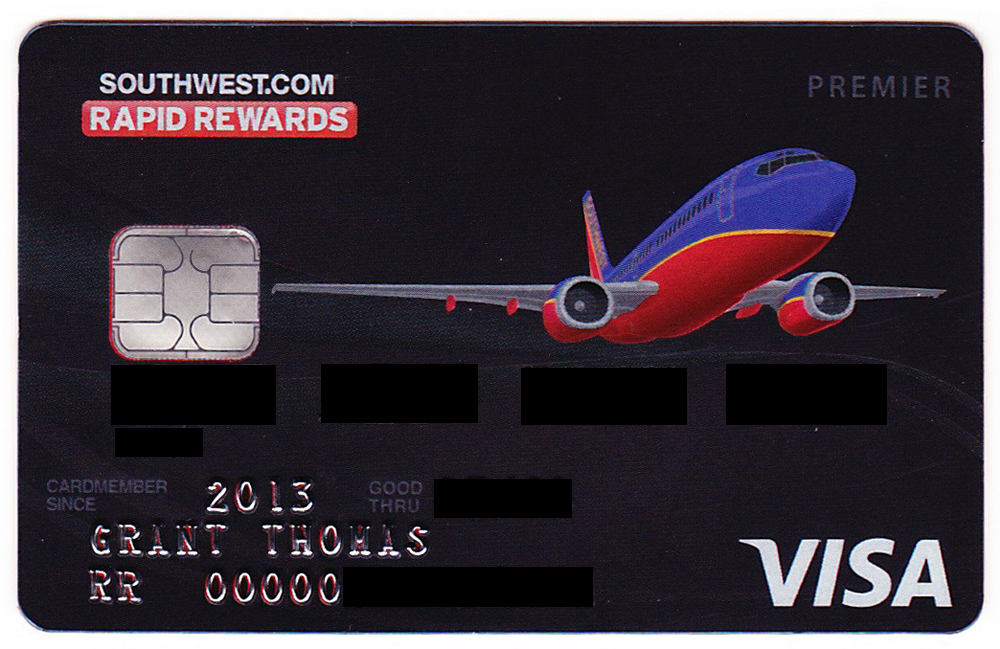
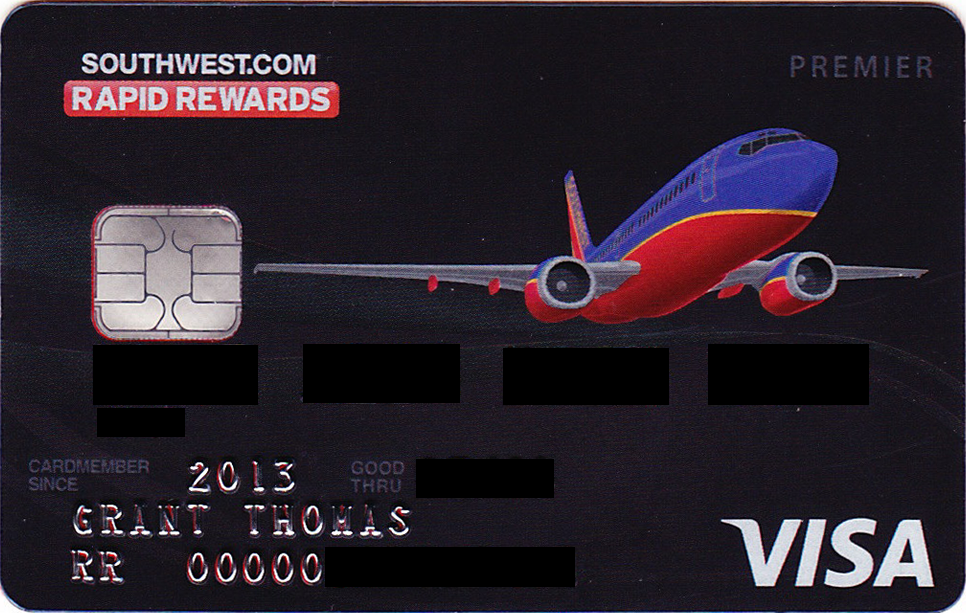
Added corner radius

diff --git a/src/components/CardBox/CardBox.js b/src/components/CardBox/CardBox.js
@@ -66,7 +66,7 @@ export default class CardBox extends Component {
     ];
 
     return (
-      <div className="col-md-4">
+      <div className="col-sm-6 col-md-4">
         <div className={styles.card}
         onMouseEnter={this.handleMouseOver.bind(this)}
         onMouseLeave={this.handleMouseLeave.bind(this)}

diff --git a/src/components/CardBox/CardBox.scss b/src/components/CardBox/CardBox.scss
@@ -21,6 +21,7 @@ $CARD-HEIGHT: 220px;
     width: $CARD-WIDTH;
     height: $CARD-HEIGHT;
     background-size: 100%;
+    border-radius: 15px;
     opacity: 0.4;
   }
 
